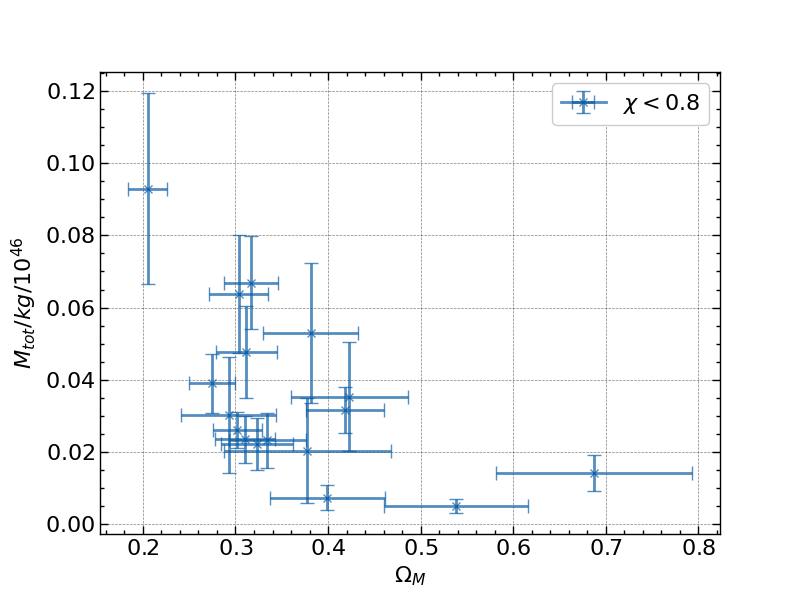
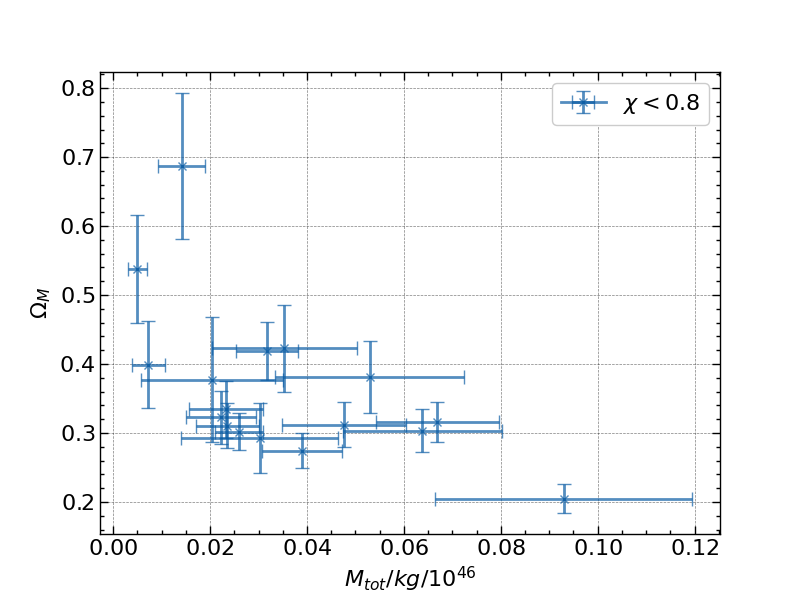
Adjusted plot parameters

diff --git a/Program/Main.py b/Program/Main.py
@@ -219,9 +219,9 @@ def PlotOmegaMAgainstChiAndChildren():
 
 def PlotOmegaMAgainstMass():
     data = pd.read_csv("Data/Results/OmegaMAgainstMtot.csv").transpose()
-    plt.errorbar(data[0][1:], data[2][1:] / 10E46, marker='x', capsize=5, yerr=data[3][1:] / 10E46, xerr=data[1][1:], alpha=0.7)
-    plt.ylabel(r'$M_{tot} / kg / 10^{46}$')
-    plt.xlabel(r'$\Omega_{M}$')
+    plt.errorbar(data[2][1:] / 10E46, data[0][1:], marker='x', capsize=5, yerr=data[1][1:], xerr=data[3][1:] / 10E46, alpha=0.7)
+    plt.ylabel(r'$\Omega_{M}$')
+    plt.xlabel(r'$M_{tot} / kg / 10^{46}$')
     plt.legend([r"$\chi < 0.8$"])
     plt.show()
 
